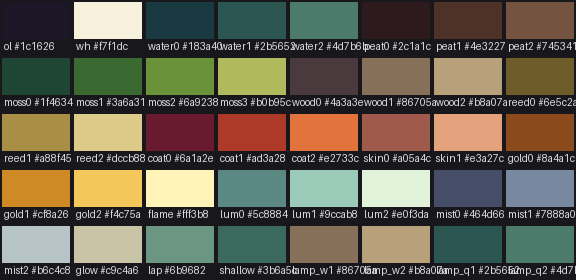
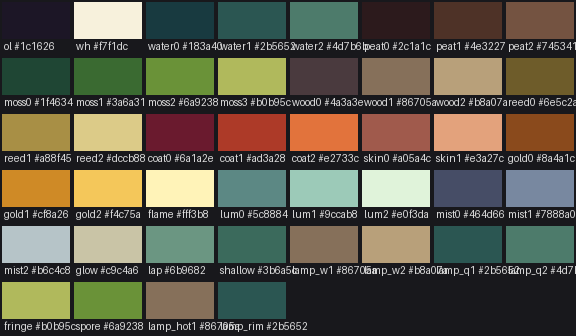
examples/moments: painters' progress
Claude-Session: https://claude.ai/code/session_016wJ47SGUun1JK2syCFk6FD

diff --git a/examples/moments/09-lanternmoss-mire/maps/render_map.py b/examples/moments/09-lanternmoss-mire/maps/render_map.py
@@ -57,6 +57,8 @@ def parse(path):
 POOL_CORE = {'wood1': 'lamp_w1', 'wood2': 'lamp_w2', 'water1': 'lamp_q1', 'water2': 'lamp_q2',
              'shallow': 'lamp_q1', 'lap': 'lamp_q2'}
 POOL_RIM = {'wood2': 'lamp_w2', 'water2': 'lamp_q2', 'lap': 'lamp_q2'}
+POOL_HOT = {'wood1': 'lamp_hot1', 'wood2': 'lamp_w2', 'water1': 'lamp_q1', 'water2': 'lamp_q2',
+            'shallow': 'lamp_q1', 'lap': 'lamp_q2'}          # the warmer step right under the lantern
 
 
 def check_corners(corners):
@@ -117,6 +119,7 @@ def compose(sprites, d, pool_at, k=0):
                 var = ('moss_peat', 'moss_peat_b', 'moss_peat_c')[int(h(tx, ty, 11) * 3)]
                 stamp(g, S[var]['frames'][idx], tx * T, ty * T)
     bw = S['boardwalk']['frames']
+    deckmask = set()
     for ty, row in enumerate(deck):
         for tx, ch in enumerate(row):
             if ch == '.':
@@ -127,14 +130,24 @@ def compose(sprites, d, pool_at, k=0):
                 name = 'v_a' if (tx + ty) % 2 else 'v_b'
             else:
                 name = DECK[ch]
-            stamp(g, bw[DECK_FRAMES.index(name)], tx * T, ty * T)
+            f = bw[DECK_FRAMES.index(name)]
+            stamp(g, f, tx * T, ty * T)
+            deckmask |= {(tx * T + x, ty * T + y) for y in range(T) for x in range(T) if f.a[y][x] is not None}
     px, py = pool_at
+    inpool = {(px + i, py + j) for j, row in enumerate(d['pool']) for i, ch in enumerate(row) if ch in '#+@'}
+    for (X, Y) in sorted(inpool):                # a 1 px warm rim where the water meets the boardwalk
+        if (X, Y) in deckmask or not (0 <= X < g.w and 0 <= Y < g.h):
+            continue
+        top = (X, Y + 1) in deckmask and g.a[Y + 1][X] == 'ol'
+        bottom = (X, Y - 1) in deckmask and g.a[Y - 1][X] == 'water0' and (X, Y + 1) not in deckmask
+        if (top or bottom) and g.a[Y][X] in ('water1', 'water2'):
+            g.a[Y][X] = 'lamp_rim' if g.a[Y][X] == 'water1' else 'lamp_q2'
     for j, row in enumerate(d['pool']):
         for i, ch in enumerate(row):
             X, Y = px + i, py + j
-            if ch in '#+' and 0 <= X < g.w and 0 <= Y < g.h:
+            if ch in '#+@' and 0 <= X < g.w and 0 <= Y < g.h:
                 v = g.a[Y][X]
-                g.a[Y][X] = (POOL_CORE if ch == '#' else POOL_RIM).get(v, v)
+                g.a[Y][X] = {'#': POOL_CORE, '+': POOL_RIM, '@': POOL_HOT}[ch].get(v, v)
     for name, x, y, fi, fl in sorted(props, key=lambda p: p[2]):
         if name not in S:
             print('map: unknown prop', name)

diff --git a/examples/moments/09-lanternmoss-mire/art/mire_tiles.py b/examples/moments/09-lanternmoss-mire/art/mire_tiles.py
@@ -131,6 +131,31 @@ def moss_tile(mask, var):
             near = any(not moss(x + dx, y + dy) for dx in range(-3, 4) for dy in range(-3, 4))
             if near and h32(x, y, seed + 77) < 0.16:
                 g.set(x, y, 'moss3'); n += 1
+    # break the glowing fringe into clusters: runs of glow (moss3) with uneven dark gaps (fringe:
+    # the same colour by day, the plain moss edge at night). Denser on the south-facing lip.
+    edge = {(x, y) for y in range(T) for x in range(T)
+            if g.a[y][x] == 'moss3' and moss(x, y) and not inner(x, y)}
+    glow = set()
+    for (x, y) in edge:
+        lip = not moss(x, y + 1)
+        thr = 0.40 if lip else 0.58
+        if _vnoise(x, y, seed + 300, 3) > thr:
+            glow.add((x, y))
+    for (x, y) in list(glow):                  # no lone glow pixels on the fringe
+        if not any((x + dx, y + dy) in glow for dx in (-1, 0, 1) for dy in (-1, 0, 1) if dx or dy):
+            glow.discard((x, y))
+    for (x, y) in edge - glow:
+        g.a[y][x] = 'fringe'
+    # a 2x2 spore patch just inside the edge (moss body by day), on about half the tiles
+    if h32(seed, 21, 91) < 0.55:
+        cands = [(x, y) for y in range(2, T - 3) for x in range(2, T - 3)
+                 if all(g.a[y + j][x + i] == 'moss2' and inner(x + i, y + j) for i in (0, 1) for j in (0, 1))
+                 and any(not moss(x + dx, y + dy) for dx in range(-3, 5) for dy in range(-3, 5))]
+        if cands:
+            x, y = cands[int(h32(seed, 22, 93) * len(cands))]
+            for i in (0, 1):
+                for j in (0, 1):
+                    g.a[y + j][x + i] = 'spore'
     return g
 
 
